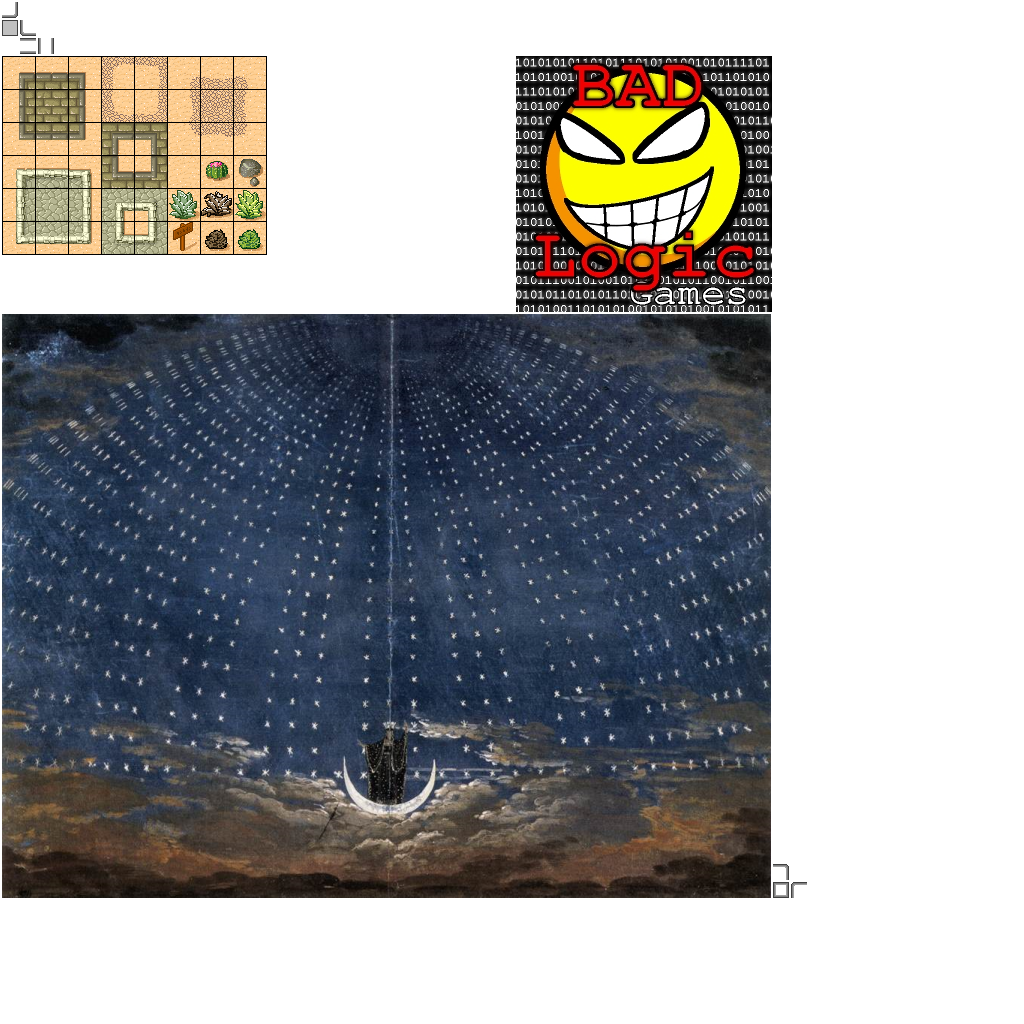
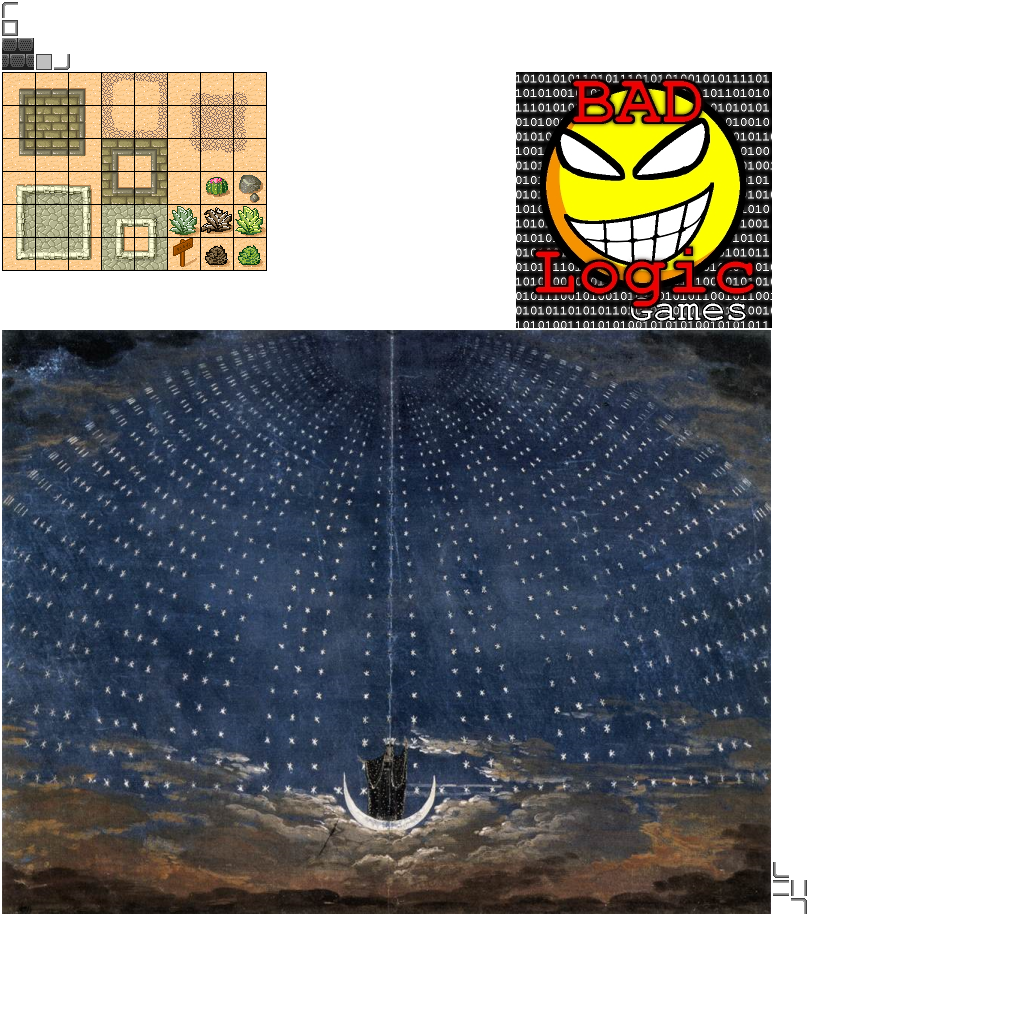
Add grate image, test w/16x16 tiles

Changed region(s): [[0.0, 0.0, 0.7812, 0.9062]]

diff --git a/core/src/lando/systems/lordsandships/scene/TileMap.java b/core/src/lando/systems/lordsandships/scene/TileMap.java
@@ -37,6 +37,7 @@ public class TileMap implements Disposable
 		tiles.put("tile-wall-ne",    Assets.atlas.findRegion("tile-wall-ne"));
 		tiles.put("tile-wall-se",    Assets.atlas.findRegion("tile-wall-se"));
 		tiles.put("tile-wall-sw",    Assets.atlas.findRegion("tile-wall-sw"));
+		tiles.put("grate",           Assets.atlas.findRegion("grate"));
 
 		tile_textures = Collections.unmodifiableMap(tiles);
 		tile_textures_keys = new ArrayList<String>(tile_textures.keySet());
@@ -95,24 +96,24 @@ public class TileMap implements Disposable
 		// Internal tiles
 		for (int y = worldy0 + 1; y < worldy1; ++y) {
 			for (int x = worldx0 + 1; x < worldx1; ++x) {
-				cache.add(tile_textures.get("tile-floor1"), x << 5, y << 5, 32, 32);
+				cache.add(tile_textures.get("grate"), x << 4, y << 4, 16, 16);
 			}
 		}
 
 		// Corner tiles
-		cache.add(tile_textures.get("tile-wall-sw"), worldx0 << 5, worldy0 << 5, 32, 32);
-		cache.add(tile_textures.get("tile-wall-nw"), worldx0 << 5, worldy1 << 5, 32, 32);
-		cache.add(tile_textures.get("tile-wall-ne"), worldx1 << 5, worldy1 << 5, 32, 32);
-		cache.add(tile_textures.get("tile-wall-se"), worldx1 << 5, worldy0 << 5, 32, 32);
+		cache.add(tile_textures.get("tile-wall-sw"), worldx0 << 4, worldy0 << 4, 16, 16);
+		cache.add(tile_textures.get("tile-wall-nw"), worldx0 << 4, worldy1 << 4, 16, 16);
+		cache.add(tile_textures.get("tile-wall-ne"), worldx1 << 4, worldy1 << 4, 16, 16);
+		cache.add(tile_textures.get("tile-wall-se"), worldx1 << 4, worldy0 << 4, 16, 16);
 
 		// Edge tiles
 		for (int y = worldy0 + 1; y < worldy1; ++y) {
-			cache.add(tile_textures.get("tile-wall-vert"), worldx0 << 5, y << 5, 32, 32);
-			cache.add(tile_textures.get("tile-wall-vert"), worldx1 << 5, y << 5, 32, 32);
+			cache.add(tile_textures.get("tile-wall-vert"), worldx0 << 4, y << 4, 16, 16);
+			cache.add(tile_textures.get("tile-wall-vert"), worldx1 << 4, y << 4, 16, 16);
 		}
 		for (int x = worldx0 + 1; x < worldx1; ++x) {
-			cache.add(tile_textures.get("tile-wall-horiz"), x << 5, worldy0 << 5, 32, 32);
-			cache.add(tile_textures.get("tile-wall-horiz"), x << 5, worldy1 << 5, 32, 32);
+			cache.add(tile_textures.get("tile-wall-horiz"), x << 4, worldy0 << 4, 16, 16);
+			cache.add(tile_textures.get("tile-wall-horiz"), x << 4, worldy1 << 4, 16, 16);
 		}
 	}
 

diff --git a/core/src/lando/systems/lordsandships/scene/LevelGenerator.java b/core/src/lando/systems/lordsandships/scene/LevelGenerator.java
@@ -449,8 +449,8 @@ public class LevelGenerator
 				else                   Assets.shapes.setColor(0.25f, 0.25f, 0.25f, 0.5f);
 			}
 
-			Assets.shapes.rect(room.rect.x * 32, room.rect.y * 32,
-							   room.rect.width * 32, room.rect.height * 32);
+			Assets.shapes.rect(room.rect.x * 16, room.rect.y * 16,
+							   room.rect.width * 16, room.rect.height * 16);
 		}
 		Assets.shapes.end();
 
@@ -458,8 +458,8 @@ public class LevelGenerator
 		Assets.shapes.begin(ShapeRenderer.ShapeType.Line);
 		Assets.shapes.setColor(0, 0, 1, 1);
 		for (Room room : initialRooms) {
-			Assets.shapes.rect(room.rect.x * 32, room.rect.y * 32,
-							   room.rect.width * 32, room.rect.height * 32);
+			Assets.shapes.rect(room.rect.x * 16, room.rect.y * 16,
+							   room.rect.width * 16, room.rect.height * 16);
 		}
 		Assets.shapes.end();
 
@@ -481,9 +481,9 @@ public class LevelGenerator
 				int p2 = triangles.get(i + 1) * 2;
 				int p3 = triangles.get(i + 2) * 2;
 				Assets.shapes.triangle(
-						points.get(p1) * 32, points.get(p1 + 1) * 32,
-						points.get(p2) * 32, points.get(p2 + 1) * 32,
-						points.get(p3) * 32, points.get(p3 + 1) * 32
+						points.get(p1) * 16, points.get(p1 + 1) * 16,
+						points.get(p2) * 16, points.get(p2 + 1) * 16,
+						points.get(p3) * 16, points.get(p3 + 1) * 16
 				);
 			}
 			Assets.shapes.end();
@@ -496,7 +496,7 @@ public class LevelGenerator
 			for (Room u : mst.vertices()) {
 				for (Room v : mst.vertices()) {
 					if (mst.hasEdge(u, v)) {
-						Assets.shapes.line(u.center.x * 32, u.center.y * 32, v.center.x * 32, v.center.y * 32);
+						Assets.shapes.line(u.center.x * 16, u.center.y * 16, v.center.x * 16, v.center.y * 16);
 					}
 				}
 			}
